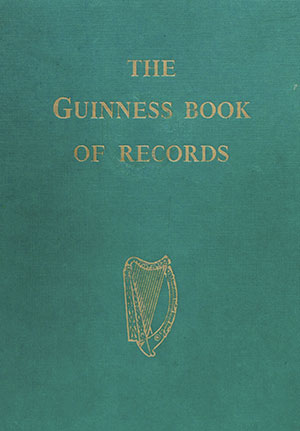
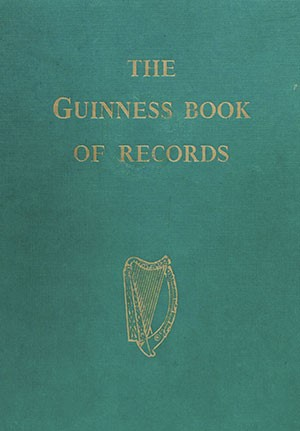
Copied and resized all books into an additional thumbnail to speed up loading times

diff --git a/src/Pages/Dashboard/Components/Grid/Components/Search_bar/Search_bar.js b/src/Pages/Dashboard/Components/Grid/Components/Search_bar/Search_bar.js
@@ -1,17 +1,29 @@
-import React, {useState} from 'react'
+import React, { useState } from 'react'
 
+//css
 import classes from "./Search_bar.module.css"
+
+//colours
 import colours from '../../../../../../Util/Colours'
+
+//assets
+import icon from "../../../../../../Assets/Icons/search_bar_icon.svg"
+import blue_icon from "../../../../../../Assets/Icons/search_bar_icon_blue.svg"
 
 export const Search_bar = props => {
 
-    const [border, set_border] = useState(false)
+    const [active, set_active] = useState(false)
 
     return (
 
         <div className={classes.container}>
-            
-            <input type="text" className={classes.input} style={{color:colours.dark_blue, border: border && `5px solid ${colours.blue}`}} maxLength="4" onChange={props.handle_filter} value={props.value || ""} onFocus={()=> set_border(true)} onBlur={()=> set_border(false)} />
+
+            <input type="text" className={[classes.input, active && classes.active_input].join(" ")} style={{ color: colours.dark_blue }} maxLength="4" onChange={props.handle_filter} value={props.value || ""} onFocus={() => set_active(true)} onBlur={() => set_active(false)} placeholder="Search for a book" name="input" />
+
+  
+
+                <img src={active ? blue_icon : icon} alt="A search icon" className={active ? classes.active_icon : classes.icon} />
+
 
         </div>
 

diff --git a/src/Pages/Dashboard/Components/Grid/Components/Search_bar/Search_bar.module.css b/src/Pages/Dashboard/Components/Grid/Components/Search_bar/Search_bar.module.css
@@ -1,13 +1,10 @@
-.container{
-
+.container {
     display: flex;
     width: 100%;
     justify-content: center;
-
 }
 
-.input{
-
+.input {
     height: 30px;
     width: 250px;
     border-radius: 15px;
@@ -15,10 +12,38 @@
     outline: none;
     box-shadow: 1px 1px 3px 1px rgba(0, 0, 0, 0.363);
     margin-bottom: 25px;
-    padding-left: 10px;
+    padding-left: 35px;
     padding-top: 5px;
+    padding-bottom: 5px;
     font-size: 20px;
     font-family: 'Roboto', sans-serif;
     font-weight: 900;
+    transition: border 0.6s ease-in-out;
+    margin-left: 17px;
+}
 
+.active_input {
+    border: 3px solid;
+}
+
+.input::placeholder {
+    position: relative;
+    left: 5px;
+}
+
+.input:focus::placeholder {
+    color: transparent;
+}
+
+.icon, .active_icon {
+    height: 20px;
+    width: 20px;
+    position: relative;
+    right: 275px;
+    top: 10px;
+}
+
+.active_icon {
+    top: 13px;
+    right: 278px;
 }

diff --git a/src/Pages/Dashboard/Components/Grid/Components/Cell/Cell.js b/src/Pages/Dashboard/Components/Grid/Components/Cell/Cell.js
@@ -14,7 +14,7 @@ export const Cell = props => {
 
             <div className={classes.photo_container} onClick={props.on_click.bind(this, props.year)}>
 
-                <img src={require(`../../../../../../Assets/Books/${props.year}.jpg`)} alt={props.year} className={classes.grid_image} />
+                <img src={require(`../../../../../../Assets/Books/${props.year}-thumb.jpg`)} alt={props.year} className={classes.grid_image} />
 
             </div>
 
